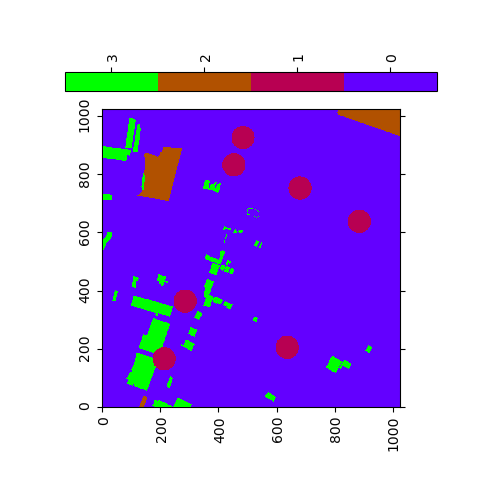
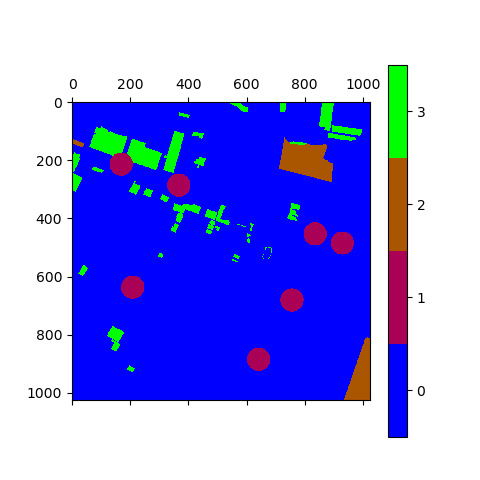
corrected obstacle map features

diff --git a/env/SemanticMap.py b/env/SemanticMap.py
@@ -175,13 +175,13 @@ class GPSemanticMap:
         if load_dict is None:
             self.semantic_map = np.array(np.zeros(shape=self.map_size))
             self.coverage_map = np.array(np.zeros(shape=(self.map_size[0], self.map_size[1])))
-            self.obstacle_map = np.array(np.zeros(shape=(self.map_size[0], self.map_size[1])))
+            self.obstacle_map = np.array(np.ones(shape=(self.map_size[0], self.map_size[1])))
             self.detected_semantic_map =  np.array(np.zeros(shape=(self.map_size[0], self.map_size[1]))) - 1
         else:
             # Load the semantic map from the file path
             #self.semantic_map = np.array(np.load(load_dict['semantic_file_path']))
             self.coverage_map = np.array(np.zeros(shape=(self.map_size[0], self.map_size[1])))
-            self.obstacle_map = np.array(np.zeros(shape=(self.map_size[0], self.map_size[1])))
+            self.obstacle_map = np.array(np.ones(shape=(self.map_size[0], self.map_size[1])))
 
             detected_semantic_map = np.load(load_dict['semantic_file_path'])
             self.detected_semantic_map = np.zeros(shape=(self.map_size[0],self.map_size[1]))
@@ -200,7 +200,8 @@ class GPSemanticMap:
 
         self.map_image = np.array(PIL.Image.open((os.getcwd() + "/"+ load_dict['map_image_file_path'])))/255
         self.map_image =np.array(resize(self.map_image, output_shape=(self.map_size[0], self.map_size[1],self.map_image.shape[-1])))
-
+        self.obstacle_map[self.padding*self.resolution: self.resolution*(self.world_map_size[0]- self.padding),
+                          self.padding*self.resolution: self.resolution*(self.world_map_size[1]- self.padding)] = 0.0
         if DEBUG:
             plt.imshow(self.detected_semantic_mapnp)
             plt.figure()
@@ -337,6 +338,8 @@ class GPSemanticMap:
         #self.detected_semantic_map = np.argmax(self.semantic_map,axis = -1)
         self.detected_semantic_map = np.zeros((self.semantic_map.shape[0],self.semantic_map.shape[1])) - 1
 
+
+        self.obstacle_map = deepcopy(ground_truth_map.obstacle_map)
         if DEBUG:
             import matplotlib.pyplot as plt
             plt.figure()
@@ -359,13 +362,27 @@ class GPSemanticMap:
         match = np.sum(map1==map2)/ np.prod(ground_truth_map.detected_semantic_map.shape)
         return match
 
+    def load_prior_semantics(self, ground_truth_map,semantic_prior_map_path):
+        '''
+        Loads a prior to the semantic map
+        @params: semantic_map_prior: semantic_prior_map: the prior map
+        '''
+
+
+        self.semantic_map =  np.load(semantic_prior_map_path)
+        self.coverage_map  = np.zeros((self.semantic_map.shape[0],self.semantic_map.shape[1]))
+        self.detected_semantic_map = np.argmax(self.semantic_map,axis = -1)
+        self.obstacle_map = deepcopy(ground_truth_map.obstacle_map)
+
     def get_entropy(self):
+        '''
+        Returns the total entropy at the desired locations
+        '''
+
         entropy = -np.sum(self.semantic_map * np.log(np.clip(self.semantic_map, 1e-7, 1)),axis = -1) + \
                   -np.sum((1-self.semantic_map) * np.log(np.clip((1-self.semantic_map), 1e-7, 1)), axis=-1)
         return entropy
-    '''
-    Returns the total entropy at the desired locations
-    '''
+
 
     def update_semantics(self, state, measurement,sensor_params):
         '''

diff --git a/env/Metrics.py b/env/Metrics.py
@@ -68,13 +68,14 @@ class SemanticMetrics:
         total_semantic_det = 0
         total_semantics_gt = 0
         for sem in target_map.semantic_list:
-            semantic_change_proportion[sem] = np.sum(target_map.detected_semantic_map
-                                                     [belief_map.detected_semantic_map == sem]) \
-                                              / target_map.semantic_proportion[sem]
+            if sem is not 0:
+                semantic_change_proportion[sem] = np.sum(target_map.detected_semantic_map
+                                                         [belief_map.detected_semantic_map == sem]) \
+                                                  / target_map.semantic_proportion[sem]
 
-            total_semantic_det += np.sum(target_map.detected_semantic_map
-                                                     [belief_map.detected_semantic_map == sem])
-            total_semantics_gt += target_map.semantic_proportion[sem]
+                total_semantic_det += np.sum(target_map.detected_semantic_map
+                                                         [belief_map.detected_semantic_map == sem])
+                total_semantics_gt += target_map.semantic_proportion[sem]
 
         return total_semantic_det/total_semantics_gt*100,semantic_change_proportion
 

diff --git a/env/GPSemantic.py b/env/GPSemantic.py
@@ -527,6 +527,7 @@ class GPSemanticGym(gym.Env):
                 'map_image_file_path':self.env_params['assets_folder'] +'gmap{}.png'.format(map_index)
             }
 
+
             self.ground_truth_semantic_map.init_map(load_dict)
             #TODO: appropirate path referenced
             params_dict = {
